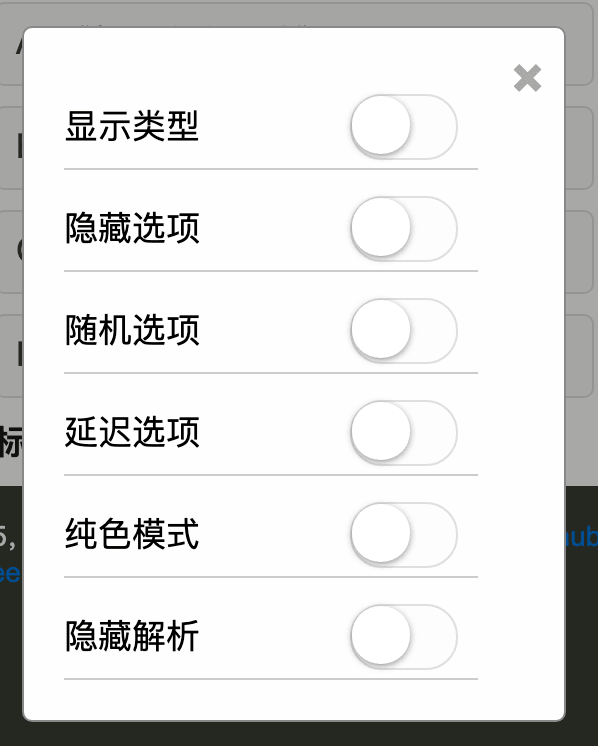
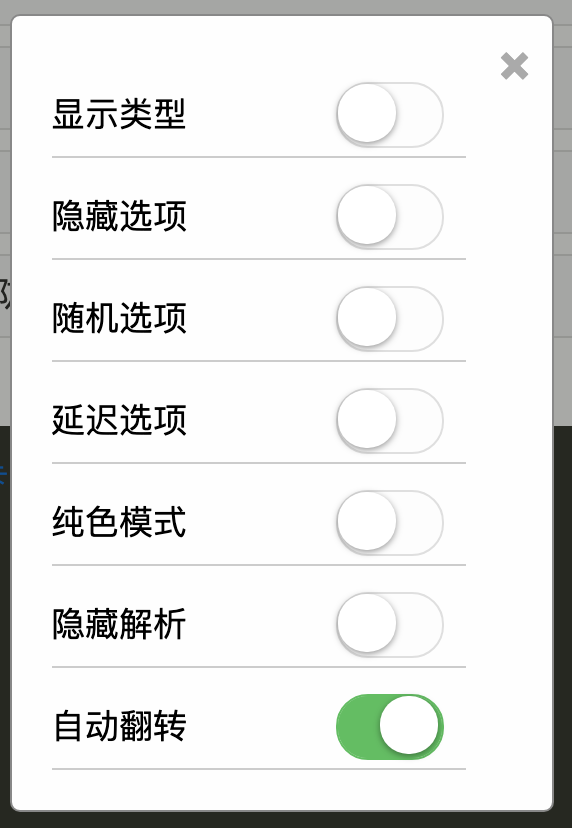
v3.11: 1. 增加【自动翻转】的设置项，用于关闭自动翻转的功能，默认开启

diff --git a/front.html b/front.html
@@ -11,7 +11,7 @@
   </div>
 </div>
 
-<div id="front-footer" class="footer">v3.10，作者：git9527</div>
+<div id="front-footer" class="footer">v3.11，作者：git9527</div>
 
 <div id="settingsModal" class="modal">
 
@@ -25,6 +25,7 @@
   var delayOptions = '0'
   var normalOption = '0'
   var hideNotes = '0'
+  var autoFlip = '1'
 
   function showFrontOptions(hideOption, randomOption, delayOption) {
     var keySeq = []
@@ -98,7 +99,7 @@
         }
         selectedArray.sort()
         Persistence.setItem('ANKI-SELECTED', selectedArray.toString())
-        if (selectedArray.length === "{{answer}}".trim().split('||').length) {
+        if (selectedArray.length === "{{answer}}".trim().split('||').length && autoFlip === '1') {
           setTimeout(function () {
             flipToBack()
           }, 100)
@@ -116,9 +117,11 @@
       if (Persistence.isAvailable()) {
         Persistence.setItem('ANKI-SELECTED', li.id)
       }
-      setTimeout(function () {
-        flipToBack()
-      }, 100)
+      if (autoFlip === '1') {
+        setTimeout(function () {
+          flipToBack()
+        }, 100)
+      }
     }
   }
 
@@ -170,6 +173,7 @@
       delayOptions = Persistence.getItem('ANKI-SETTINGS-DELAY-OPTIONS') || '0'
       normalOption = Persistence.getItem('ANKI-SETTINGS-NORMAL-OPTIONS') || '0'
       hideNotes = Persistence.getItem('ANKI-SETTINGS-HIDE-NOTES') || '0'
+      autoFlip = Persistence.getItem('ANKI-SETTINGS-AUTO-FLIP') || '1'
       Persistence.setItem('ANKI-SELECTED', '')
     }
     document.getElementById('hide-option').checked = hideOptions === '1'
@@ -178,6 +182,7 @@
     document.getElementById('delay-option').checked = delayOptions === '1'
     document.getElementById('normal-option').checked = normalOption === '1'
     document.getElementById('hide-notes').checked = hideNotes === '1'
+    document.getElementById('auto-flip').checked = autoFlip === '1'
     showFrontOptions(hideOptions, randomOptions, delayOptions)
     dealQuestionType(showQuestionType)
   }
@@ -213,6 +218,10 @@
     dealQuestionType(showQuestionType)
   }
 
+  function switchAutoFlip(input) {
+    extractKeyFromInputAndSave(input, 'ANKI-SETTINGS-AUTO-FLIP')
+  }
+
   function extractKeyFromInputAndSave(input, persistKey) {
     var key = input.checked ? '1' : '0'
     if (Persistence.isAvailable()) {
@@ -233,6 +242,8 @@
       showQuestionType = key
     } else if (persistKey === 'ANKI-SETTINGS-HIDE-NOTES') {
       hideNotes = key
+    } else if (persistKey === 'ANKI-SETTINGS-AUTO-FLIP') {
+      autoFlip = key
     }
     return key
   }
@@ -288,6 +299,12 @@
       '        <div class="setting-label">隐藏解析</div>\n' +
       '        <div class="setting-switch">\n' +
       '          <input id="hide-notes" class="mui-switch mui-switch-anim" type="checkbox" onchange="switchHideNotes(this)">\n' +
+      '        </div>\n' +
+      '      </div>\n' +
+      '      <div class="single-setting">\n' +
+      '        <div class="setting-label">自动翻转</div>\n' +
+      '        <div class="setting-switch">\n' +
+      '          <input id="auto-flip" class="mui-switch mui-switch-anim" type="checkbox" onchange="switchAutoFlip(this)">\n' +
       '        </div>\n' +
       '      </div>\n' +
       '    </div>\n' +

diff --git a/back.html b/back.html
@@ -102,7 +102,7 @@
 
 </div>
 
-<div id="back-footer" class="footer">v3.10，作者：git9527</div>
+<div id="back-footer" class="footer">v3.11，作者：git9527</div>
 
 <script>
 

diff --git a/README.md b/README.md
@@ -1,6 +1,12 @@
 # Anki选择题模板
 
+## 最新示例卡片下载地址
+https://zhangsn.me/anki-awesome-select/
+
 ## 更新日志:
+v3.11:
+1. 增加【自动翻转】的设置项，用于关闭自动翻转的功能，默认开启
+
 v3.10:
 1. 微调选项前面序号的位置，使其与对错图标居中对其
 2. 优化安卓客户端【卡片浏览器】展示，隐藏非重要信息
@@ -90,6 +96,7 @@ v1.5:
 4. 延迟选项：是否延迟1500毫秒显示选项
 5. 纯色模式：用于默认的淡色和纯色切换
 6. 隐藏解析：开启后，碰到有解析的卡片，先出现【显示解析】的按钮，点击按钮后才出现解析
+7. 自动翻转：默认开启，当选择数量与答案数量一致时，翻转至卡片背面
 
 ## 各平台截图
 |平台             | 单选 | 多选 |
